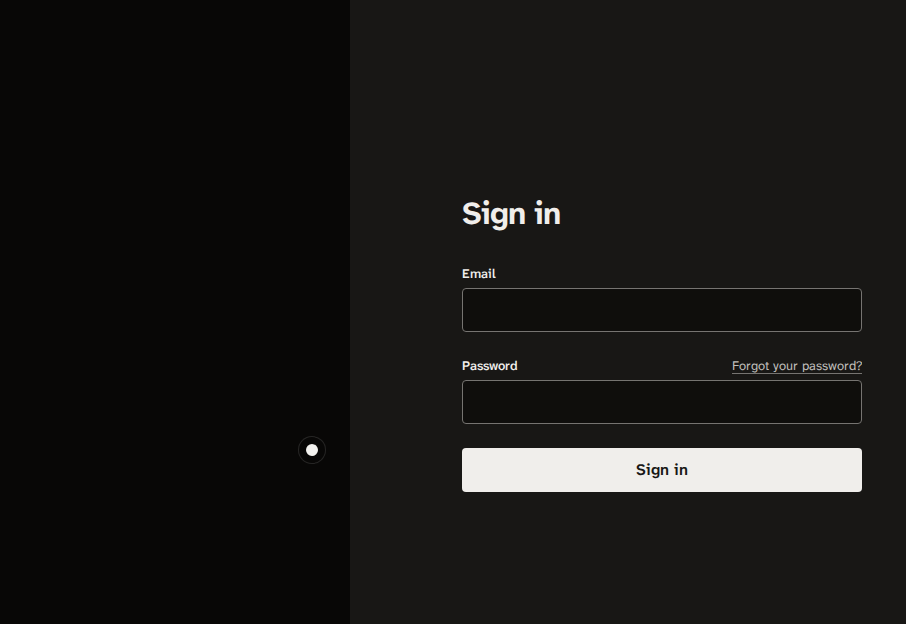
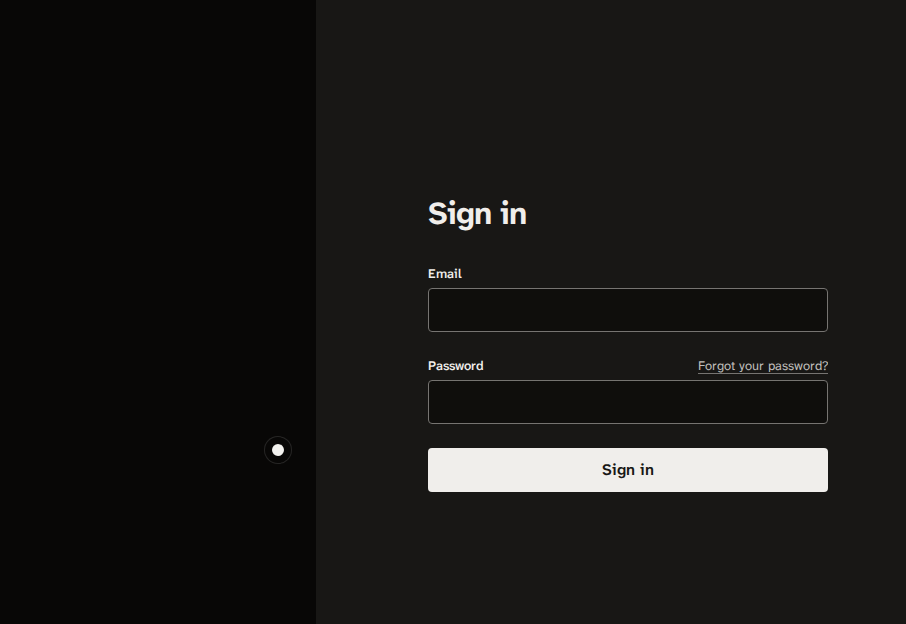
Polish the project page

diff --git a/site.css b/site.css
@@ -105,11 +105,13 @@
   --t-mid: 200ms;
   --ease-out: cubic-bezier(0.2, 0.8, 0.2, 1);
 
-  /* Two columns each side of the door's edge, which is the middle of the page. */
+  /* Under 1440 px a column is 269.5 px at most, so the page is 1270 px: a desktop capture without its rail. */
+  /* The 9999 product is a switch: far below zero under 1439.5 px, far above 288 over it. */
+  --col-max: min(var(--col), max(269.5px, (100% - 1439.5px) * 9999));
   --cols:
     minmax(var(--gap), 1fr)
-    minmax(0, var(--col)) var(--gap) minmax(0, var(--col)) var(--gap)
-    var(--gap) minmax(0, var(--col)) var(--gap) minmax(0, var(--col))
+    minmax(0, var(--col-max)) var(--gap) minmax(0, var(--col-max)) var(--gap)
+    var(--gap) minmax(0, var(--col-max)) var(--gap) minmax(0, var(--col-max))
     minmax(var(--gap), 1fr);
 }
 
@@ -836,9 +838,7 @@ h2 {
   color: var(--on-door-2);
 }
 
-/* A capture is drawn at one CSS pixel for each of its own. Its picture is a window that crops it; nothing scales it. */
-/* --cap-w is the width of the file in use, --shot-w the window's width, --from what is cut from the file's left. */
-/* Under 1200 px a window is framed: it starts on the text column and holds the whole capture. */
+/* A capture is drawn at one CSS pixel for each of its own: its window crops it and nothing scales it. */
 .shot {
   --cap-w: 390px;
   --shot-w: var(--cap-w);
@@ -910,6 +910,22 @@ h2 {
   }
 }
 
+/* 406 to 429 px: the window runs from margin to margin and the 390 px capture is cut alike on both sides, */
+/* (430 - screen) / 2 px, which leaves 8 px or more of its own paper beside its text. At odd widths the left is 1 px less. */
+@media (min-width: 406px) and (max-width: 429.98px) {
+  .shot {
+    --shot-w: 100cqi;
+    --from: calc((var(--cap-w) - 100cqi) / 2);
+    --pull: 0px;
+  }
+
+  @supports (width: round(down, 1px, 1px)) {
+    .shot {
+      --from: round(down, (var(--cap-w) - 100cqi) / 2, 1px);
+    }
+  }
+}
+
 /* The file in use: 360 px under 390, 390 px to 743, 728 px to 1199. The picture's sources switch at the same widths. */
 @media (max-width: 389.98px) {
   .shot {
@@ -923,8 +939,76 @@ h2 {
   }
 }
 
+/* 1024 to 1199 px: the picker and the caption stand in a column right of the 728 px window, from 48 px after it to */
+/* the right margin, under a 1 px rule level with the window's top. The section keeps the page's right edge.         */
+@media (min-width: 1024px) and (max-width: 1199.98px) {
+  .screens {
+    display: grid;
+    grid-template-columns: 728px var(--gap) minmax(0, 1fr);
+    grid-template-rows: auto auto auto auto 1fr;
+  }
+
+  .screens > h2 {
+    grid-column: 1 / -1;
+    grid-row: 1;
+  }
+
+  .screens-note {
+    grid-column: 1 / -1;
+    grid-row: 2;
+  }
+
+  /* 47 px: the 24 px over a window's name, the name and its 8 px, less the 1 px of the window's ring. */
+  .screen-tabs {
+    grid-column: 3;
+    grid-row: 3;
+    position: relative;
+    z-index: 1;
+    flex-direction: column;
+    flex-wrap: nowrap;
+    align-items: flex-start;
+    gap: 0;
+    margin-top: calc(var(--s7) - 1px);
+    padding-top: var(--s1);
+  }
+
+  .screen-tabs::before {
+    content: "";
+    position: absolute;
+    top: 0;
+    left: 20px;
+    right: 0;
+    height: 1px;
+    background: var(--door-line);
+  }
+
+  .screen-pick#screen-overview:checked ~ .screen[data-screen="overview"],
+  .screen-pick#screen-servers:checked ~ .screen[data-screen="servers"],
+  .screen-pick#screen-sign-in:checked ~ .screen[data-screen="sign-in"] {
+    display: grid;
+    grid-column: 1 / -1;
+    grid-row: 3 / span 3;
+    grid-template-columns: subgrid;
+    grid-template-rows: subgrid;
+    margin-top: 0;
+  }
+
+  /* 32 px under the list, more than the 24 px between two of its words: the caption is not a fourth choice. */
+  .screen figcaption {
+    grid-column: 3;
+    grid-row: 2;
+    margin-top: var(--s6);
+  }
+
+  .shot,
+  .shot.pair {
+    grid-column: 1;
+    grid-row: 1 / span 3;
+  }
+}
+
 /* 1200 px and up: desktop captures (232 px rail, 48 px, a 1112 px column, then paper to 1502), cut at the rail's edge. */
-/* Up to 1271 the window is the screen, so the capture's column stands on the page's own. */
+/* Up to 1270 the window is the screen, so the capture's column stands on the page's own. */
 @media (min-width: 1200px) {
   .shot:not(.pair) {
     --cap-w: 1502px;
@@ -963,9 +1047,8 @@ h2 {
   }
 }
 
-/* 1272 to 1439: a frame on the page margins. Up to 1303 it is narrower than the page without its rail, so it is cut */
-/* on both sides alike: 32 px beside the column at 1272, 48 at 1304. From 1304 the cut is the rail's edge. */
-@container (min-width: 1272px) {
+/* 1271 to 1439 px: a frame on the page margins, cut alike on both sides up to 1303 px, at the rail edge from 1304. */
+@container (min-width: 1271px) {
   .shot:not(.pair) {
     --shot-w: min(100cqi - 2 * var(--gap), 1270px);
     --from: 248px;
@@ -1115,7 +1198,7 @@ video {
   overflow-wrap: anywhere;
 }
 
-/* Under 480 px a block is a band from edge to edge with its text on the column: the config file's 42 character lines fit at 12 px. */
+/* Under 480 px a block is a band from edge to edge with its text on the column. */
 @media (max-width: 479.98px) {
   .code {
     margin-inline: calc(-1 * var(--gutter));
@@ -1123,10 +1206,17 @@ video {
     border-inline: 0;
     border-radius: 0;
   }
+}
+
+/* Under 390 px every block is 12 px and its face advances 7.58 px in every browser: 42 characters are 319 px. */
+@media (max-width: 389.98px) {
+  .code {
+    font-size: 12px;
+    text-rendering: geometricPrecision;
+  }
 
   .code.conf {
     padding-inline-end: 0;
-    font-size: 12px;
   }
 }
 
@@ -1166,8 +1256,8 @@ video {
   margin-top: var(--s4);
 }
 
-/* 480 to 1199 px: the numbers hang in a 32 px gutter and a box hangs 17 px, so titles, prose and code text share one edge. */
-@media (min-width: 480px) and (max-width: 1199.98px) {
+/* 480 to 1023 px: the numbers hang in a 32 px gutter and a box hangs 17 px, so titles, prose and code text share one edge. */
+@media (min-width: 480px) and (max-width: 1023.98px) {
   .run > li,
   .variant {
     padding-inline-start: var(--s6);
@@ -1176,9 +1266,42 @@ video {
   .run h3::before {
     margin-inline-start: calc(-1 * var(--s6));
   }
+}
 
+@media (min-width: 480px) and (max-width: 1199.98px) {
   .section-body .code {
     margin-inline-start: calc(-1 * var(--s4) - 1px);
+  }
+}
+
+/* 1024 to 1199 px: Quick start and Status in the two columns they have from 1200 px. The title on the left margin, */
+/* 96 px, and the 624 px text column on the right margin, so it ends where the bands, the video and the footer end. */
+@media (min-width: 1024px) and (max-width: 1199.98px) {
+  .section:not(:has(.gets)) {
+    display: grid;
+    grid-template-columns: minmax(0, 1fr) calc(2 * var(--gap)) var(--measure);
+  }
+
+  .section:not(:has(.gets)) .section-head {
+    grid-column: 1;
+    align-self: start;
+    position: sticky;
+    top: var(--s6);
+  }
+
+  .section:not(:has(.gets)) .section-body {
+    grid-column: 3;
+    max-width: none;
+    margin-top: 0;
+  }
+
+  .run h3::before {
+    width: var(--gap);
+    margin-inline-start: calc(-1 * var(--gap));
+  }
+
+  .status > div {
+    grid-template-columns: 160px minmax(0, 1fr);
   }
 }
 
@@ -1613,12 +1736,11 @@ video {
     padding-inline: 0;
   }
 
-  /* Quick start and Status: the text column is 624 px and ends on the right margin, so the longest command is whole. */
-  /* Its left edge is min(50% + 48px, 100% - 672px): from 1440 px the page's third column. The title takes what is left. */
+  /* Quick start and Status: the 624 px text column ends on the right margin, so the longest command is whole. */
   .section:not(:has(.gets)) {
     grid-template-columns:
       minmax(var(--gap), 1fr)
-      minmax(0, var(--measure)) calc(2 * var(--gap)) var(--measure)
+      minmax(0, calc(var(--measure) - 4 * (var(--col) - var(--col-max)))) calc(2 * var(--gap)) var(--measure)
       minmax(var(--gap), 1fr);
   }
 
@@ -1751,10 +1873,22 @@ video {
     min-height: 80px;
   }
 
+  /* --page is the page column and --edge the margin beside it, which is half a pixel off at odd widths. */
+  /* A capture must stand on whole pixels, so its block is moved left by that half. */
   .shot,
   .shot.pair {
+    --page: min(100cqi - 2 * var(--gap), min(1344px, max(1270px, (100cqi - 1439.5px) * 9999)));
+    --edge: calc((100cqi - var(--page)) / 2);
+    --snap: 0px;
     grid-column: 1 / -1;
-    margin-top: var(--s7);
+    margin: var(--s7) calc(-1 * var(--snap)) 0 var(--snap);
+  }
+
+  @supports (width: round(down, 1px, 1px)) {
+    .shot,
+    .shot.pair {
+      --snap: calc(round(down, var(--edge), 1px) - var(--edge));
+    }
   }
 
   .stacked-only {
@@ -1838,10 +1972,15 @@ video {
   }
 }
 
-/* Under 1440 px the sample address is 12 px: 258 px, which a column holds from 1320 px. */
-@media (min-width: 1200px) and (max-width: 1439.98px) {
+/* Under 1440 px of page the sample address is 12 px: 258 px, which a column holds from 1320 px. The page is measured, */
+/* not the screen: a 1440 px screen with a classic scrollbar has 1425 px of page and 269.5 px columns. */
+@media (min-width: 1200px) {
+  .threshold {
+    container-type: inline-size;
+  }
+
   .cell .sample code {
-    font-size: 12px;
+    font-size: clamp(12px, (100cqi - 1439.5px) * 9999, 13px);
   }
 }
 
@@ -1864,7 +2003,7 @@ video {
 
 @media (min-width: 1200px) and (max-height: 820px) {
   .statement {
-    padding: var(--s2) 0 var(--s7);
+    padding: var(--s5) 0 var(--s7);
   }
 
   .path > h2 {
